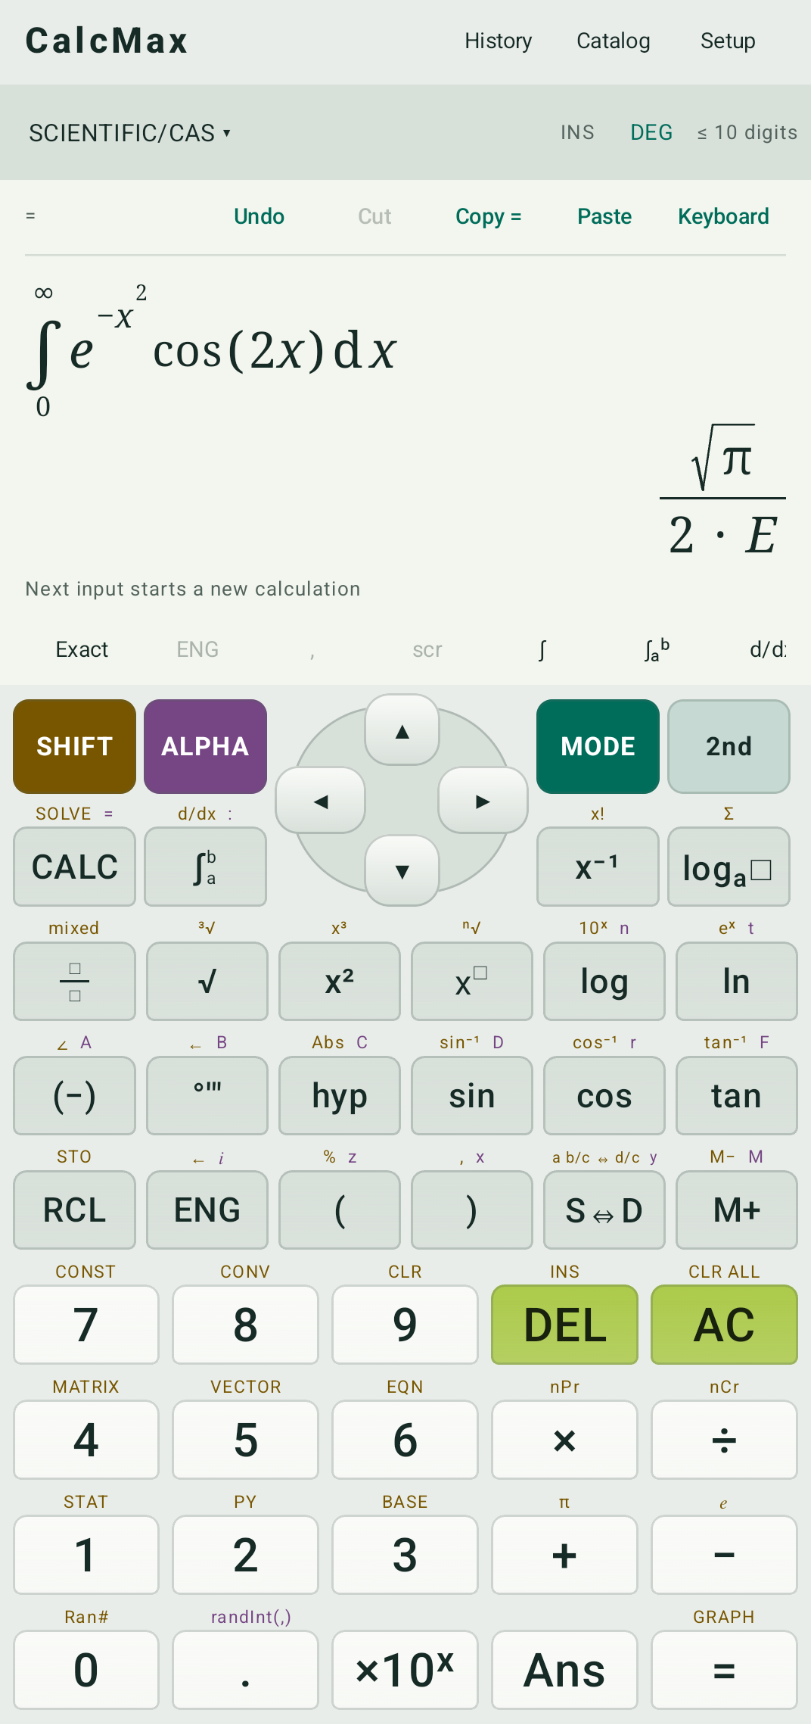
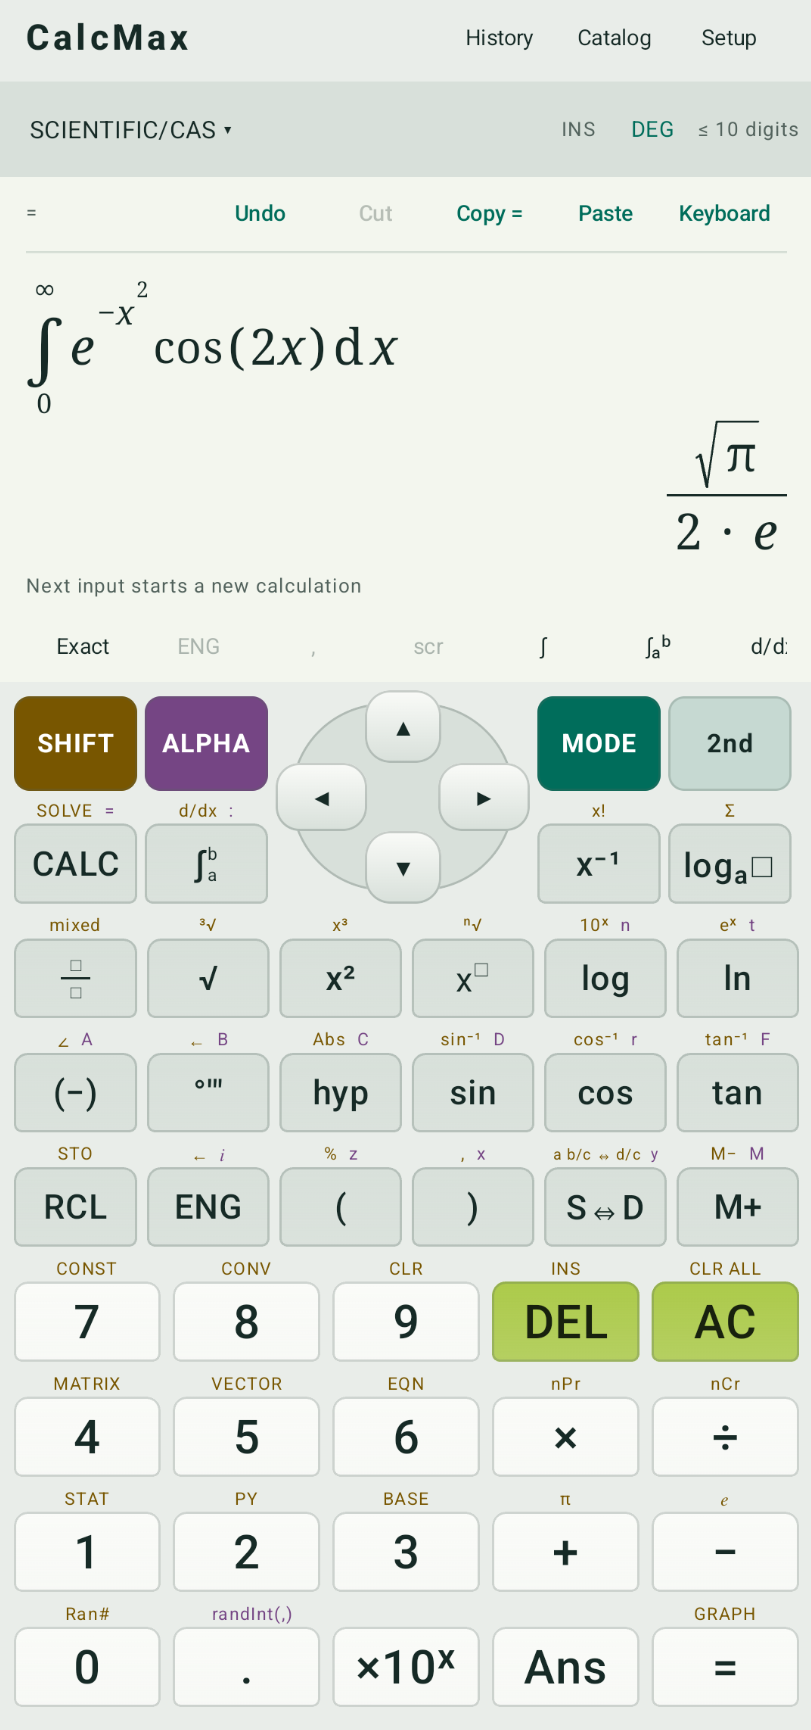
sc

diff --git a/app/src/main/java/com/kirinonakar/calcmax/ui/MathDisplay.kt b/app/src/main/java/com/kirinonakar/calcmax/ui/MathDisplay.kt
@@ -325,8 +325,8 @@ private fun Placeable.axis():Int = this[MathAxis].let{if(it==AlignmentLine.Unspe
             kind=="call"&&value=="mixed"->MathRow(3.dp){child(0);FractionLayout({child(1,.85f)},{child(2,.85f)})}
             kind=="call"&&value=="eng"->child(0)
             kind in listOf("number","symbol","text")-> {
-                val shown=when(value){"pi"->"π";"oo"->"∞";else->value}
-                val mathItalic=kind in listOf("symbol","text")&&value in listOf("x","y","z","e","E","i","I")
+                val shown=when(value){"pi"->"π";"oo"->"∞";"E"->"e";"I"->"i";else->value}
+                val mathItalic=value in listOf("x","y","z","e","E","i","I")
                 if(select==null) MathText(shown,size,italic=mathItalic)
                 else {
                     val at=if(end==start)0 else ((cursor-start)*shown.length/(end-start)).coerceIn(0,shown.length)

diff --git a/math/src/test/kotlin/com/kirinonakar/calcmax/math/LatexInputTest.kt b/math/src/test/kotlin/com/kirinonakar/calcmax/math/LatexInputTest.kt
@@ -28,6 +28,14 @@ class LatexInputTest {
         assertEquals("*",tree.args[0].value)
     }
 
+    @Test fun gaussianIntegralPasteWithImplicitProduct() {
+        val converted=LatexInput.convert("$$\\int_{0}^{\\infty} e^{-x^2} \\cos(2x) \\, dx$$")
+        val tree=Parser(converted!!).parse()
+        assertEquals("integrate",tree.value)
+        assertEquals("*",tree.args[0].value)
+        assertEquals("∘",tree.args[0].displayOperator)
+    }
+
     @Test fun functionAfterPowerIsImplicit() {
         val inserted=Editor("e^(-x^2)").insert("cos()",4)
         assertEquals("e^(-x^2)cos()",inserted.source)
